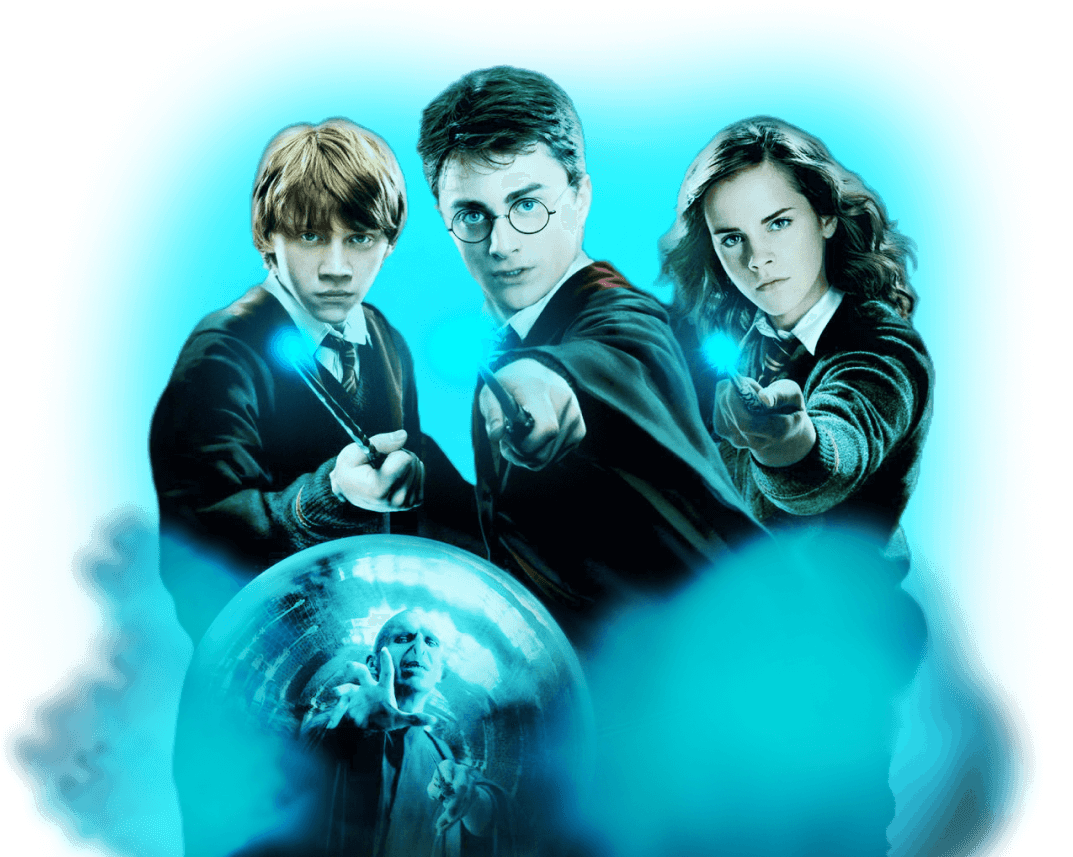
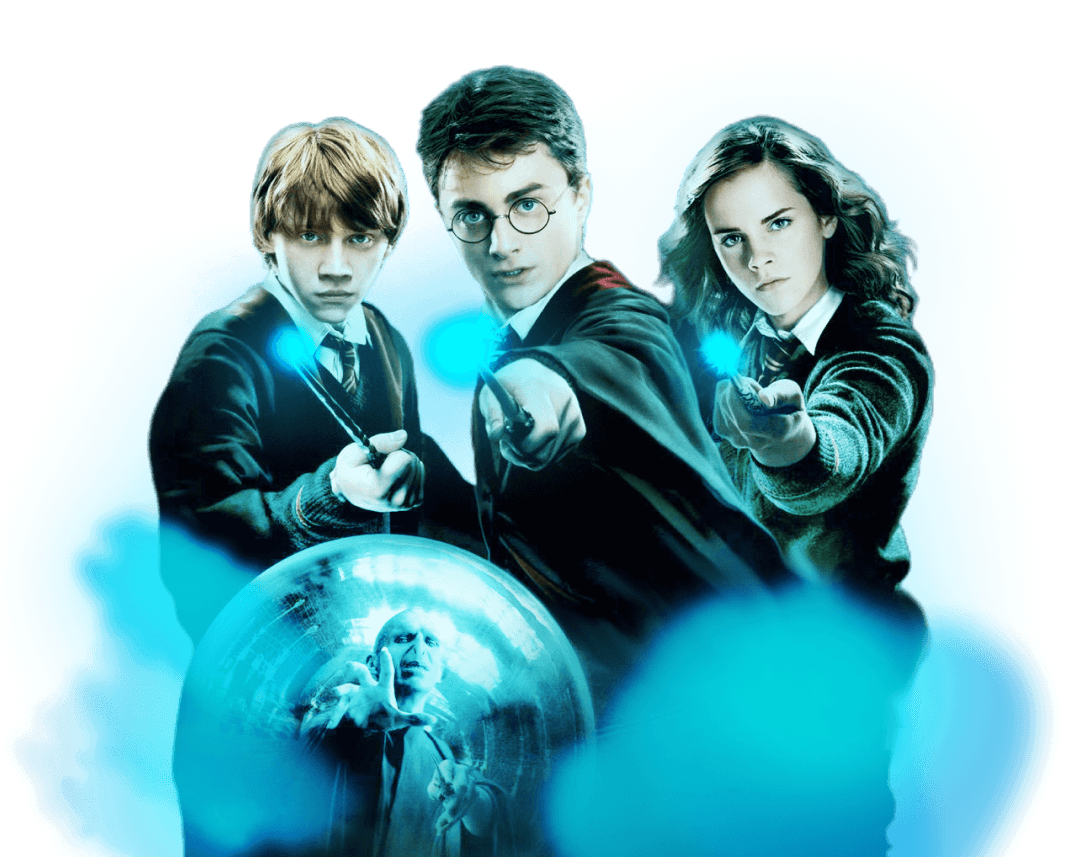
:ambulance: Mudar para mobile first e imagens melhores

diff --git a/style.css b/style.css
@@ -8,132 +8,118 @@
   box-sizing: border-box;
   padding: 0;
   margin: 0;
+  /* border: 1px solid red; */
 }
 :root {
-  --cor-primaria: hsl(184, 100%, 50%);
+  --cor-primaria: #00f0ff;
 }
 body {
   font-family: 'Nunito', sans-serif;
 }
 header {
   min-height: 100vh;
-  background-image: url('./imagens/header/hogwarts-desktop.png');
-  background-position: center;
+  background-image: url('./imagens/header/img-hogwarts-fundo.png');
   background-size: cover;
-}
-section {
-  display: flex;
-  width: 100%;
-  /* align-items: center; */
-  background-color: hsla(0, 0%, 0%, 0.3);
-  position: relative;
+  background-position: center;
+  background-color: hsl(185, 97%, 15%);
+  color: hsl(0, 0%, 100%);
   overflow: clip;
 }
-article {
+.conteudo {
+  min-height: 100vh;
   display: flex;
   flex-direction: column;
-  align-items: flex-start;
-  padding-top: 10rem;
-  padding-inline: clamp(0rem, 7vw, 8rem);
-  width: 50%;
-  color: hsl(0, 0%, 100%);
-  gap: 1.5rem;
-  position: relative;
-  z-index: 2;
+  align-items: center;
+  justify-content: space-between;
+  background-color: hsla(0, 0%, 0%, 0.6);
 }
-h1 {
+.imagem .protagonistas {
+  position: relative;
+  z-index: 1;
+  width: 100%;
+  max-width: 800px;
+  transform: scale(1.04);
+  animation: mudandoTamanho 10s linear infinite;
+}
+.texto {
+  max-width: 30rem;
+  padding: 3rem 1rem;
+  text-align: center;
+  display: flex;
+  flex-direction: column;
+  gap: 1.5rem;
+}
+.texto h1 {
   font-family: 'HarryP', Times, sans-serif;
   font-weight: 400;
-  font-size: clamp(3rem, 5vw, 4rem);
+  font-size: 3.5rem;
 }
-span {
+.texto span {
   color: var(--cor-primaria);
 }
-p {
-  font-size: clamp(1rem, 3vw, 1.2rem);
-  line-height: 1.5;
+.texto p {
+  font-size: 1.2rem;
 }
-a {
+.texto a {
   background-color: var(--cor-primaria);
   padding: 1rem;
-  font-size: clamp(1.2rem, 3vw, 1.5rem);
-  font-weight: 700;
+  font-size: 1.5rem;
   text-decoration: none;
   color: hsl(0, 7%, 8%);
   border-radius: 0.8rem;
   transition: all ease 0.3s;
   text-align: center;
+  font-weight: 700;
 }
-a:hover,
-a:focus {
+.texto a:hover,
+.texto a:focus {
   outline: none;
   filter: brightness(1.03);
   transform: scale(1.04);
   box-shadow: 0 5px 15px var(--cor-primaria);
 }
-a:active {
+.texto a:active {
   filter: brightness(0.8);
   box-shadow: inset 0px 0px 48px 18px var(--cor-primaria);
   box-shadow: 0 5px 15px var(--cor-primaria);
   transform: scale(1);
 }
-picture {
-  display: flex;
-  align-items: flex-end;
-  position: relative;
-  min-height: 100vh;
-  width: 100%;
-}
-img {
-  position: absolute;
-  width: 75%;
-  right: 0;
-  /* animation: mudandoTamanho 10s linear infinite; */
-}
 @keyframes mudandoTamanho {
   0% {
-    transform: scale(1);
+    transform: scale(1.04);
   }
   50% {
     transform: scale(1.1);
   }
   100% {
-    transform: scale(1);
+    transform: scale(1.04);
   }
 }
-@media screen and (max-width: 1080px) {
+@media screen and (min-width: 1000px) {
+  .conteudo {
+    flex-direction: row;
+    background-color: hsla(0, 0%, 0%, 0.3);
+  }
+  .texto {
+    text-align: left;
+    padding-inline-start: 5rem;
+  }
+  .imagem {
+    align-self: flex-end;
+  }
+}
+/* @media screen and (min-width: 55em) {
   header {
-    min-height: auto;
+    flex-direction: row;
+    padding-inline-start: 4rem;
   }
-  header section {
-    background-color: hsla(0, 0%, 0%, 0.5);
-    flex-direction: column;
-    min-height: 100vh;
-    /* background-color: blueviolet; */
+  article {
+    text-align: start;
   }
-
-  header section article {
-    text-align: center;
-    align-items: stretch;
-    padding-inline: 1rem;
-    margin-inline: auto;
-    max-width: 500px;
-    width: 100%;
-    padding-top: 5rem;
-    /* background-color: red; */
-  }
-
   picture {
-    /* background-color: blue; */
-    min-height: auto;
-    position: static;
+    align-self: flex-end;
   }
-  img {
-    /* background-color: pink; */
-    bottom: 0;
-    width: 70%;
-  }
-}
+} */
 /* Para manter o padrão coluna em tablets como o Ipad PRO */
 /* @media screen and (min-height: 55em) {
   header {

diff --git a/index.html b/index.html
@@ -8,13 +8,18 @@
       name="description"
       content="Veja a saga Harry Potter completa na HBO max. Desfrute dos filmes que fizeram história sem cortes ou comerciais e em HD."
     />
+    <link
+      rel="shortcut icon"
+      href="./imagens/harry-potter-favicon.webp"
+      type="image/x-icon"
+    />
     <link rel="stylesheet" href="style.css" />
     <title>Assista Harry Potter na HBO MAX!</title>
   </head>
   <body>
     <header>
-      <section>
-        <article>
+      <section class="conteudo">
+        <article class="texto">
           <h1>A Saga completa de Hogwarts na <span>HBO Max!</span></h1>
           <p>
             Hogwarts está aqui na HBO MAX! Assista agora a todos os 8 filmes da
@@ -27,10 +32,12 @@
             >Assistir a saga online</a
           >
         </article>
-        <picture>
+        <picture class="imagem">
           <img
+            class="protagonistas"
             src="./imagens/header/ronald-harry-hermione.png"
             alt="Harry, Rony e Hermione sérios apontando uma varinha para frente."
+            loading="lazy"
           />
         </picture>
       </section>
